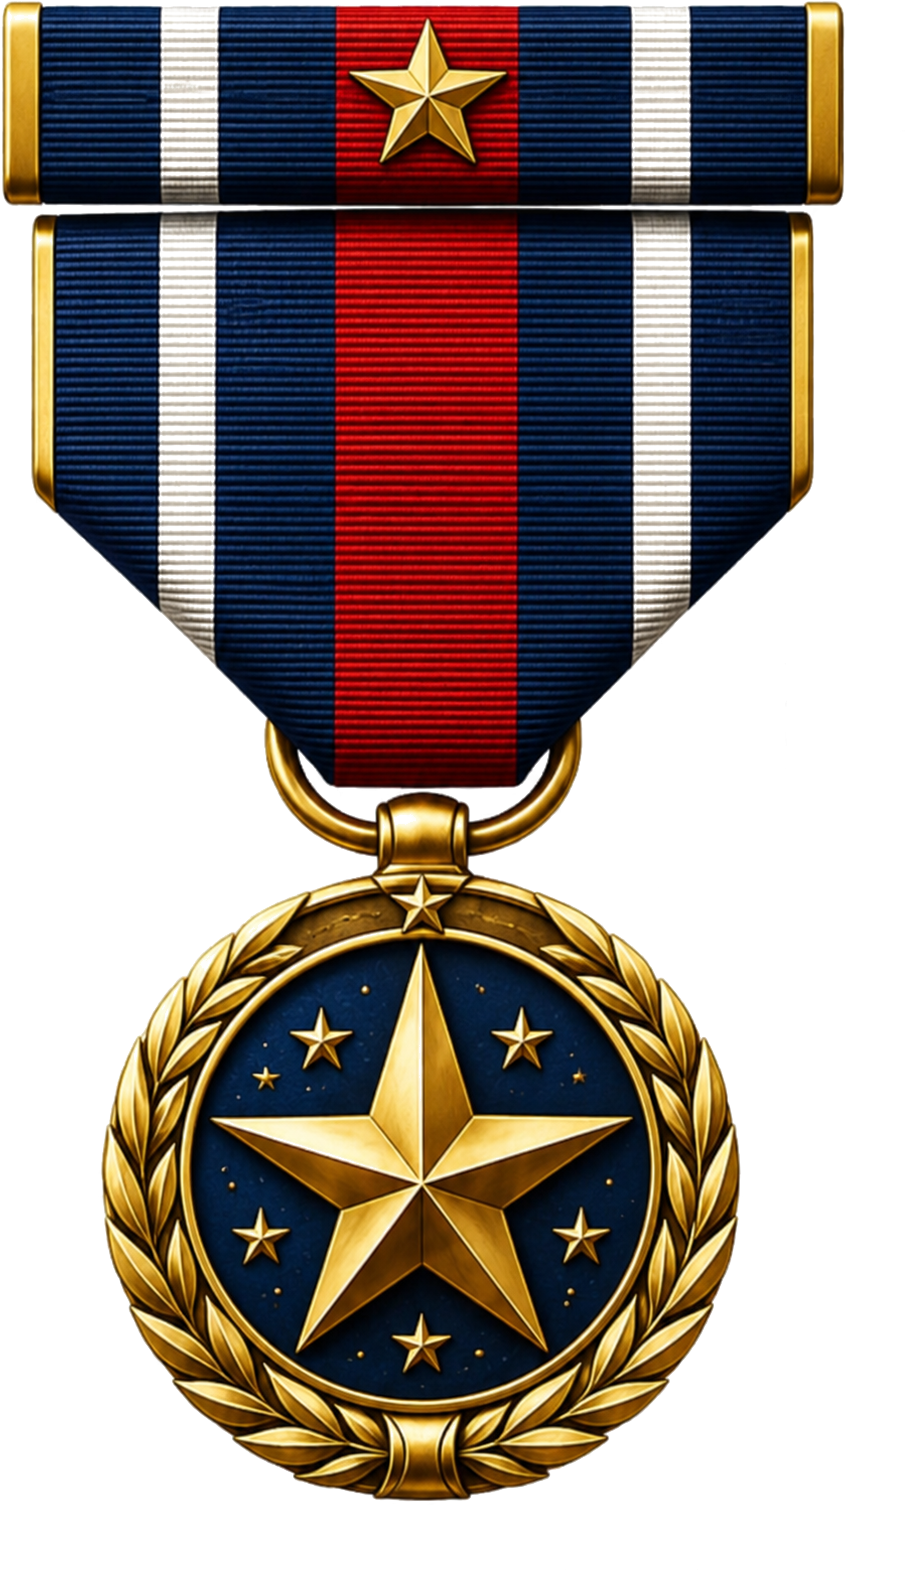
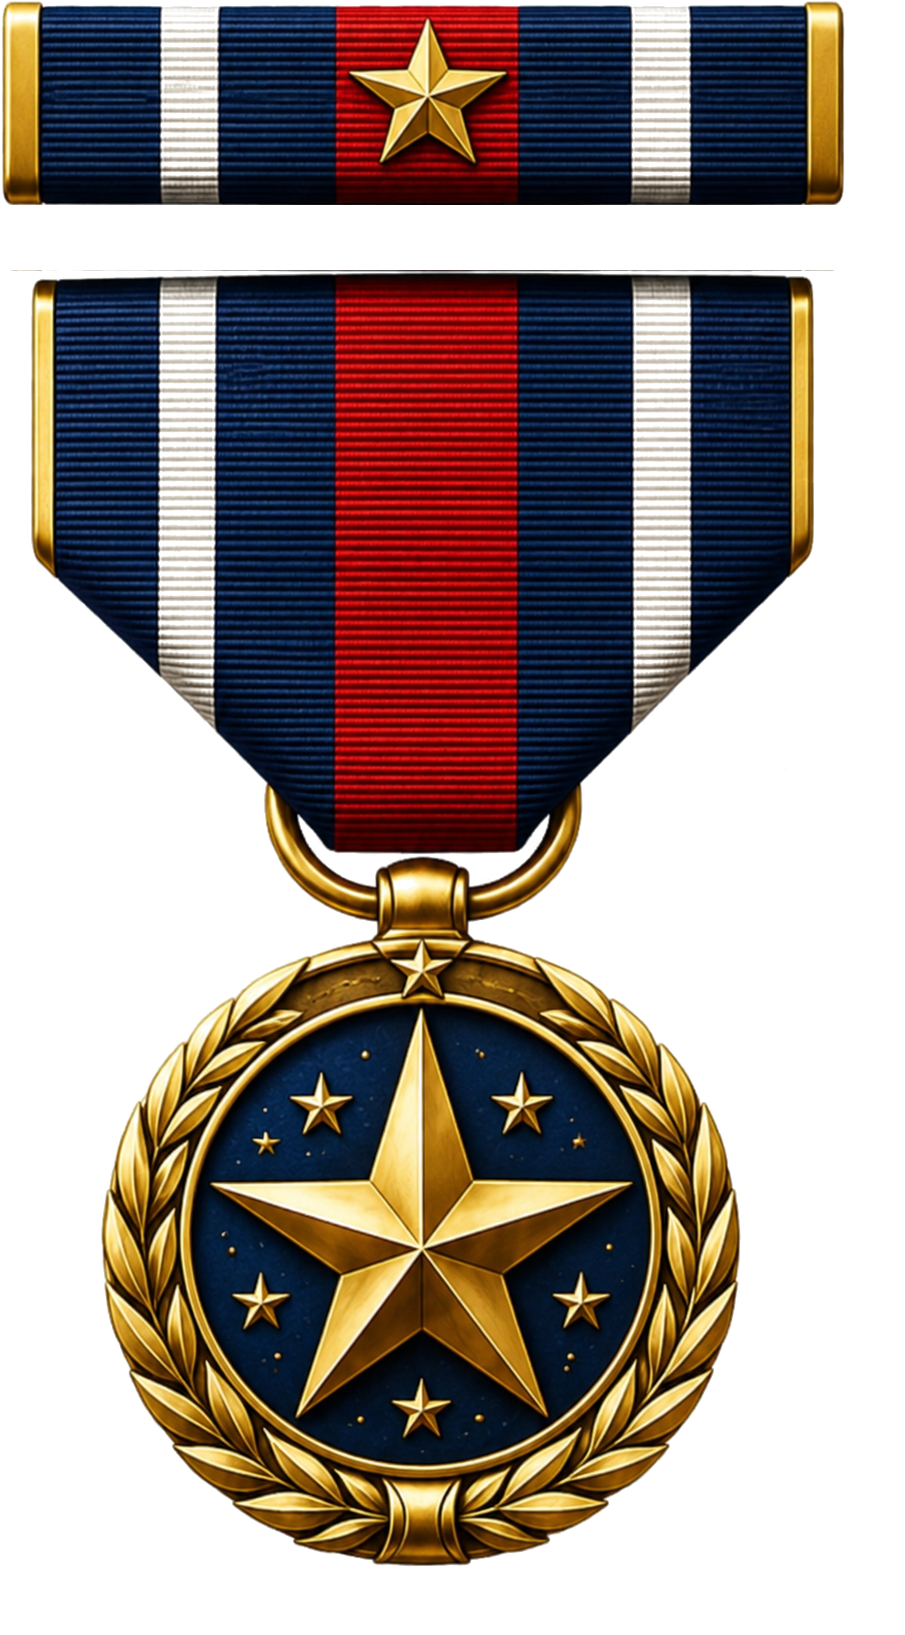
Add files via upload

diff --git a/awards.html b/awards.html
@@ -52,9 +52,12 @@
       z-index: 1;
       display: grid;
       grid-template-columns: repeat(4, minmax(0, 1fr));
-      gap: clamp(1rem, 2.5vw, 2rem);
+      gap: clamp(1rem, 2vw, 1.6rem);
+      align-items: stretch;
     }
     .presentation-card {
+      width: 100%;
+      min-width: 0;
       display: flex;
       flex-direction: column;
       min-height: 100%;
@@ -72,16 +75,18 @@
     .medal-stage {
       display: grid;
       place-items: center;
-      min-height: clamp(370px, 48vw, 590px);
-      padding: .5rem;
+      height: 470px;
+      min-height: 470px;
+      padding: 1rem;
       background: radial-gradient(circle at 50% 56%, rgba(232,190,72,.16), transparent 42%);
     }
     .medal-stage img {
       display: block;
-      width: auto;
-      max-width: 100%;
-      height: clamp(350px, 45vw, 560px);
+      width: 100%;
+      max-width: 290px;
+      height: 440px;
       object-fit: contain;
+      object-position: center;
       filter: drop-shadow(0 15px 18px rgba(0,0,0,.58));
     }
     .presentation-copy {
@@ -107,17 +112,23 @@
       max-width: 44ch;
       margin: .55rem auto 0;
     }
-    .presentation-card:last-child { grid-column: 1 / -1; width: min(560px, 100%); justify-self: center; }
+    
     }
     
+    
+    }
+
+    
     @media (max-width: 1180px) and (min-width: 761px) {
-      .presentation-grid { grid-template-columns: repeat(2, minmax(0, 1fr)); }
+      .presentation-grid {
+        grid-template-columns: repeat(2, minmax(0, 1fr));
+      }
     }
 
     @media (max-width: 760px) {
       .presentation-grid { grid-template-columns: 1fr; }
-      .medal-stage { min-height: 410px; }
-      .medal-stage img { height: min(520px, 112vw); }
+      .medal-stage { height: 430px; min-height: 430px; }
+      .medal-stage img { height: 400px; max-width: 280px; }
     }
   </style>
 </head>
@@ -193,7 +204,7 @@
           </article>
 <article class="presentation-card">
             <div class="medal-stage">
-              <img src="award-medal-of-valor.png?v=450" alt="Medal of Valor ribbon bar and full-size medal">
+              <img src="award-medal-of-valor.png?v=460" alt="Medal of Valor ribbon bar and full-size medal">
             </div>
             <div class="presentation-copy">
               <p class="precedence">#3 Medal of Valor</p>
@@ -204,7 +215,7 @@
 
           <article class="presentation-card">
             <div class="medal-stage">
-              <img src="award-distinguished-service.png?v=450" alt="Distinguished Service Medal ribbon bar and full-size medal">
+              <img src="award-distinguished-service.png?v=460" alt="Distinguished Service Medal ribbon bar and full-size medal">
             </div>
             <div class="presentation-copy">
               <p class="precedence">#4 Distinguished Service Medal</p>
@@ -218,7 +229,7 @@
 
       <section class="award-grid visual-awards exact-awards">
         <article class="award-card">
-          <img src="award-distinguished-service.png?v=450" alt="Distinguished Service Medal medal and ribbon">
+          <img src="award-distinguished-service.png?v=460" alt="Distinguished Service Medal medal and ribbon">
           <div class="award-card-copy">
             <p class="system-label">Exceptional Fleet Service</p>
             <h3>Distinguished Service Medal</h3>